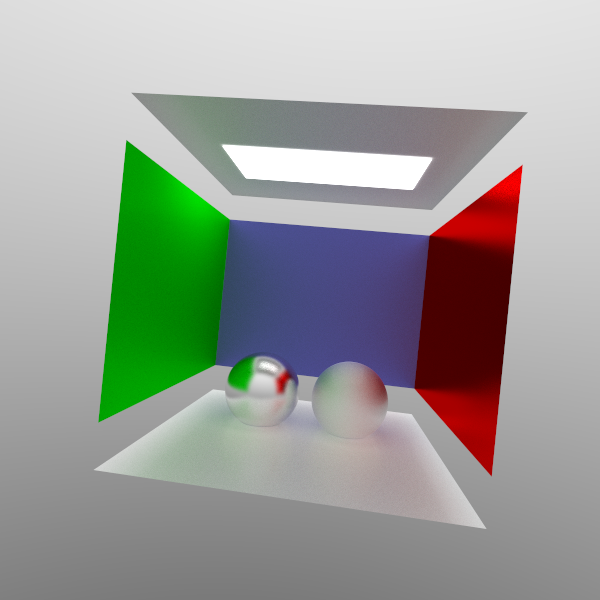
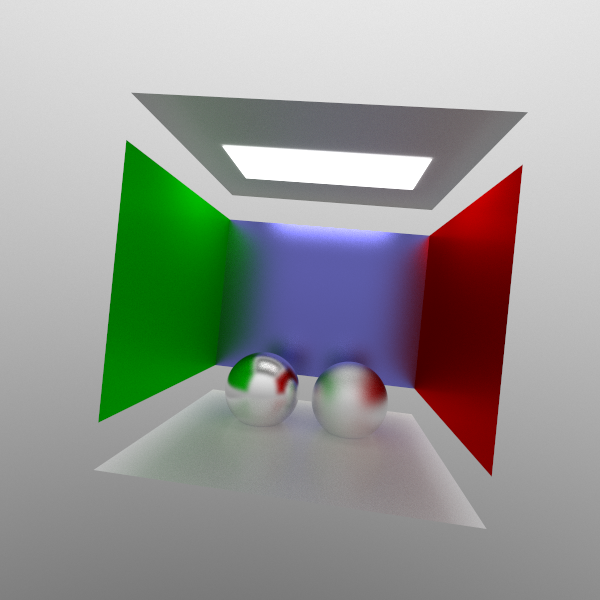
re-add support for large panel lights -- these are useful when rendering large regional light blocks

Changed region(s): [[0.15, 0.15, 0.87, 0.9]]

diff --git a/main.cpp b/main.cpp
@@ -28,6 +28,14 @@ int main(){
 				for(int j=0; j<camera.bounces; ++j){
 					if(hit(r, t)){
 						r.c *= t.m -> c;
+
+						// if(!j && t.m -> smooth < 300) break;
+
+						if(t.m -> light){
+							camera.set(x, y, r.c);
+							break;
+						}
+
 						t.scatter(r);
 
 					}else{
@@ -68,11 +76,13 @@ int main(){
 						r.c *= t.m -> c;
 						d += r.p.dist(t.p);
 
+						// if(t.m -> smooth < 300){
 						{
 							ray R; touch T;
 							R.p = t.p; R.d = (camera.p-t.p).norm();
 							if(!hit(R, T) || T.d > camera.p.dist(R.p)){
-								double E = camera.p.dist(R.p)+d;
+								//double E = camera.p.dist(R.p)+d;
+								double E = camera.p.dist(R.p);
 								E = factor*t.scatter(r.d, R.d)/E/E;
 								camera.set(R.p, r.c*E);
 								++x;

diff --git a/scene.cpp b/scene.cpp
@@ -121,11 +121,25 @@ void setup_scene(){
 		.r = 0.3,
 	});
 
+	/*
+	rects.push_back({
+		.t = {
+			.p = {0, .99, 0},
+			.y = {0, -1, 0},
+		},
+		.m = {
+			.light = true,
+			.c = {2, 2, 2},
+		},
+		.w = 0.7, .l = 0.35,
+	});
+	*/
+
 	simple_light({
 		0.7 * (rng::base()*2.0-1.0),
 		0.99,
 		0.35 * (rng::base()*2.0-1.0),
-	}, {2,2,2});
+	}, {1,1,1});
 
 	/*
 	double m = 300;

diff --git a/ray.cpp b/ray.cpp
@@ -6,6 +6,7 @@ struct ray{
 };
 
 struct material{
+	bool light = false;
 	color c;
 	double smooth = 1.0;
 };
